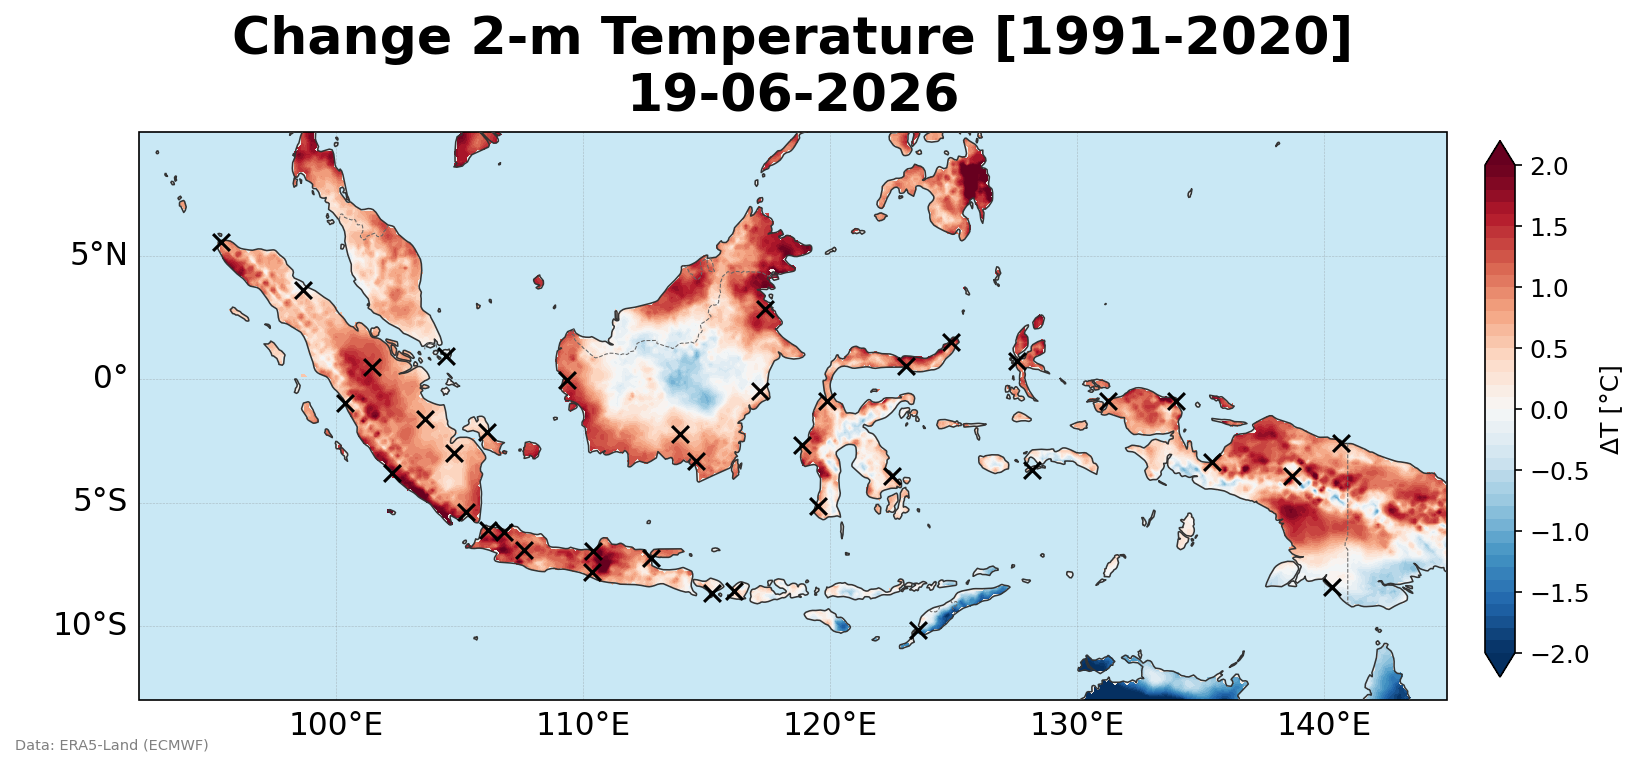
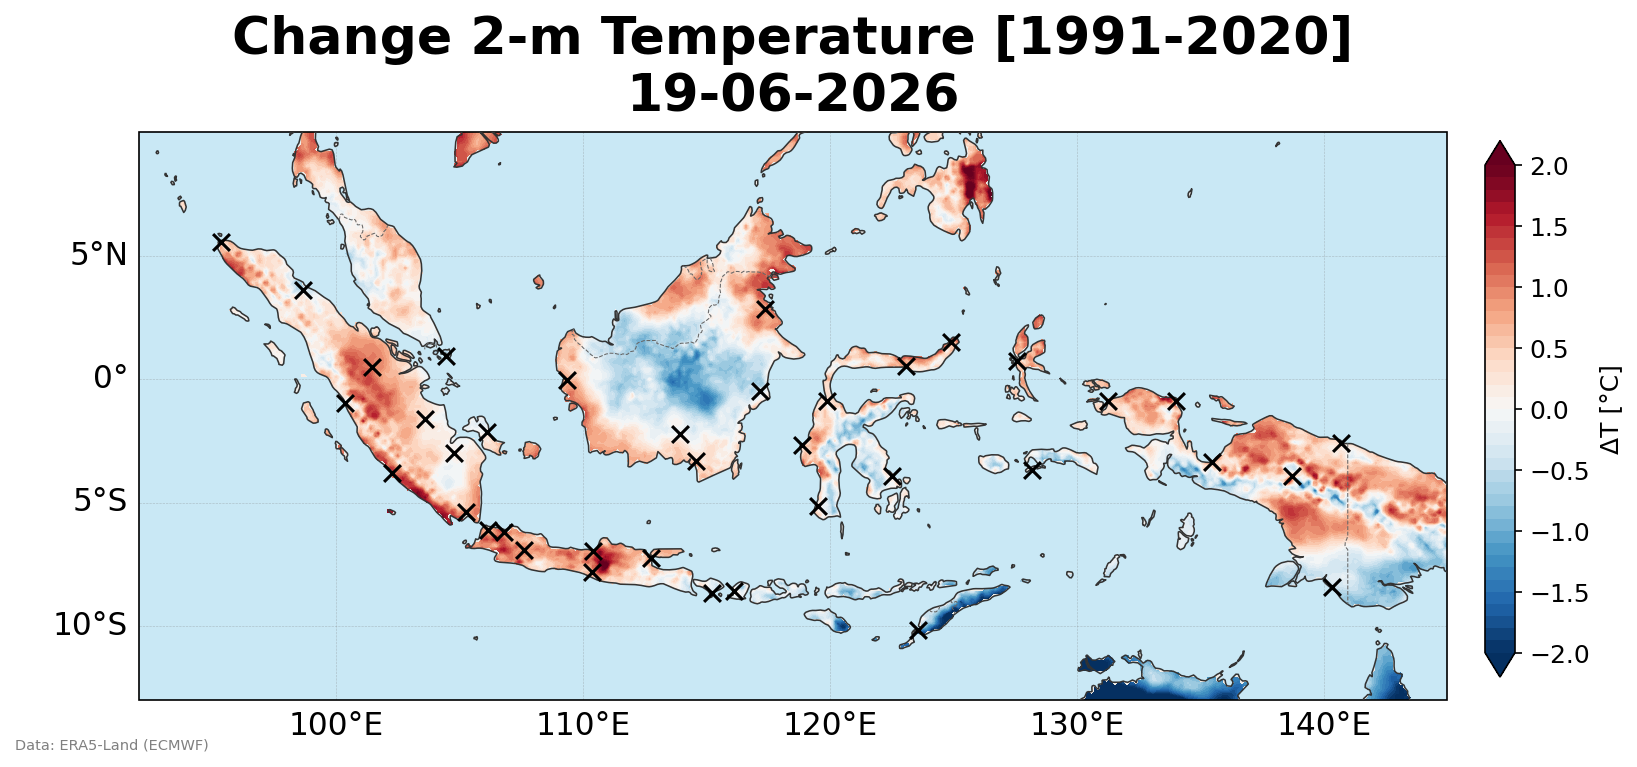
update

diff --git a/_projects/3_climamonitor.md b/_projects/3_climamonitor.md
@@ -5,8 +5,10 @@ description:
 img: assets/img/change.png
 ---
 
+This page monitors surface air temperature across Indonesia and provides changes in temperature for provincial capitals relative to the 1991–2020 climatological baseline.
 
-sdsdsd
+
+**Update:** {{ site.time | date: "%d %B %Y" }}
 
 
 <div class="row justify-content-sm-center">
